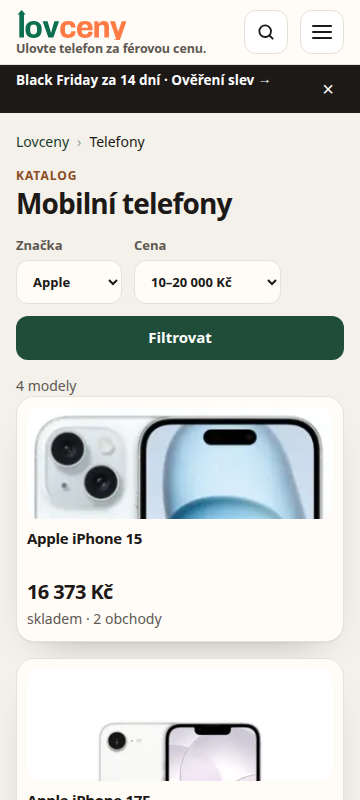
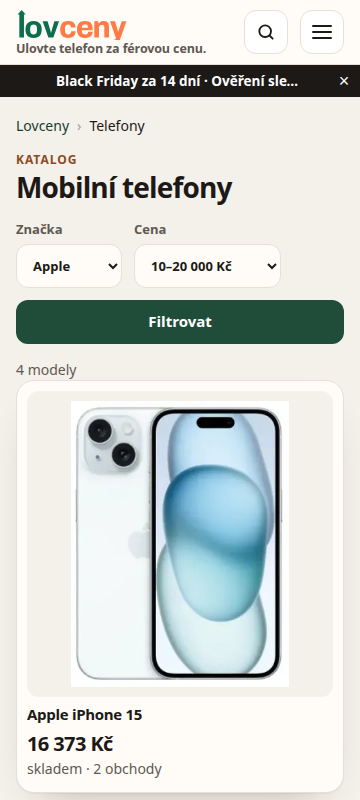
Keep phone photos inside their frames and one offer row per shop.
The model image no longer spills over the price, cards and compare show the whole phone, and the top offers are three different shops when the data has them.

diff --git a/lovceny/static/phones.css b/lovceny/static/phones.css
@@ -22,9 +22,9 @@ body{background:var(--bg);color:var(--ink);font-family:"Avenir Next","Segoe UI",
 .btn-primary:hover{background:var(--brand-600)}
 .kicker,.eyebrow{margin:0;font-size:12px;font-weight:700;letter-spacing:.08em;text-transform:uppercase;color:var(--accent)}
 .bf-banner{background:#1C1917}
-.bf-line{display:flex;align-items:center;gap:8px;min-height:36px}
-.bf-banner .bf-line a{display:block;flex:1;min-width:0;padding:7px 0;color:#fff;text-decoration:none;font-size:13.5px;font-weight:650;line-height:1.2;white-space:nowrap;overflow:hidden;text-overflow:ellipsis}
-.bf-dismiss{flex:none;width:32px;height:32px;border:0;background:transparent;color:#fff;font-size:20px;line-height:1;cursor:pointer}
+.bf-line{position:relative;display:flex;align-items:center;justify-content:center;height:32px;min-height:32px}
+.bf-banner .bf-line a{display:block;flex:1;min-width:0;min-height:0;margin:0;padding:0 40px;color:#fff;text-decoration:none;font-size:13.5px;font-weight:650;line-height:32px;text-align:center;white-space:nowrap;overflow:hidden;text-overflow:ellipsis}
+.bf-dismiss{position:absolute;right:0;top:0;width:32px;height:32px;display:grid;place-items:center;border:0;background:transparent;color:#fff;font-size:18px;line-height:1;cursor:pointer;padding:0}
 .head-search{display:none;align-items:center;gap:8px;margin-left:auto}
 .head-search input{height:40px;width:min(240px,28vw);border:1px solid var(--line);border-radius:12px;padding:0 12px;font:inherit;font-size:15px;background:var(--bg);color:var(--ink)}
 .head-search .btn{height:40px;padding:0 14px;font-size:14px}
@@ -38,7 +38,7 @@ body{background:var(--bg);color:var(--ink);font-family:"Avenir Next","Segoe UI",
   .head-search.is-open .btn{flex:none}
 }
 .phone-hero{padding:8px 0 0}
-.phone-hero-grid{display:grid;grid-template-columns:minmax(0,1.35fr) 260px;gap:20px;align-items:center}
+.phone-hero-grid{display:grid;grid-template-columns:minmax(0,1.35fr) 260px;gap:20px;align-items:center;padding-left:24px;padding-right:24px;box-sizing:border-box}
 .phone-hero h1{font-size:28px;line-height:1.12;letter-spacing:-.03em;font-weight:750;max-width:22ch;margin:2px 0 6px}
 .nowrap{white-space:nowrap}
 .phone-lead{max-width:62ch;color:var(--muted);font-size:14px;line-height:1.4;margin:0 0 10px}
@@ -46,12 +46,13 @@ body{background:var(--bg);color:var(--ink);font-family:"Avenir Next","Segoe UI",
 .phone-hero .search input,.phone-hero .search .btn-primary{height:46px}
 .phone-hero .search .btn-primary{width:auto;flex:none;padding:0 18px}
 .hero-feature{display:grid;grid-template-columns:84px minmax(0,1fr);gap:10px;align-items:center;background:var(--soft);border:1px solid var(--line);border-radius:16px;padding:10px;text-decoration:none;color:inherit}
-.hero-feature .phone-card-img{height:84px;margin:0}
+.hero-feature .phone-card-img{height:84px;aspect-ratio:auto;margin:0}
 .hero-feature strong{display:block;font-size:15px;line-height:1.25;letter-spacing:-.02em}
 .hero-feature b{display:block;margin-top:4px;font-size:20px;letter-spacing:-.03em}
 .phone-board,.phone-guides,.phone-page{padding:8px 0 var(--space-6)}
 .phone-board-head{display:flex;justify-content:space-between;gap:var(--space-3);align-items:end;margin-bottom:8px}
 .phone-board-head h2{letter-spacing:-.03em;line-height:1.15;font-size:20px;margin:0}
+.phone-more{font-size:14px;font-weight:700;color:var(--brand);text-decoration:none;white-space:nowrap}
 .phone-page h1,.guides-page h1{letter-spacing:-.03em;line-height:1.15;font-size:28px;margin:2px 0 8px;max-width:none;text-align:left}
 .phone-filters{display:grid;gap:6px;margin-bottom:10px}
 .phone-scroll{position:relative;min-width:0}
@@ -65,19 +66,21 @@ body{background:var(--bg);color:var(--ink);font-family:"Avenir Next","Segoe UI",
 .phone-drops a{font-weight:700;text-decoration:none}
 .phone-grid{display:grid;grid-template-columns:repeat(4,minmax(0,1fr));gap:var(--space-4)}
 .phone-card{background:var(--soft);border:1px solid var(--line);border-radius:18px;box-shadow:var(--shadow)}
-.phone-card-main{display:flex;flex-direction:column;gap:2px;text-decoration:none;padding:10px 10px 12px;color:inherit;height:100%}
-.phone-card-img,.model-photo,.guide-photo,.pcmp-photo{color:var(--muted)}
-.phone-card-img{height:112px;display:grid;place-items:center;background:var(--bg);border-radius:12px;overflow:hidden;margin:0 0 8px}
+.phone-card-main{display:flex;flex-direction:column;gap:0;text-decoration:none;padding:10px 10px 12px;color:inherit;height:100%}
+.phone-card-img,.model-photo,.guide-photo,.pcmp-photo{position:relative;color:var(--muted);overflow:hidden}
+.phone-card-img{aspect-ratio:1;height:auto;background:var(--bg);border-radius:12px;margin:0 0 8px}
 .phone-card-img .img-missing,.model-photo .img-missing{min-height:100%}
 .phone-card-img .img-missing svg,.model-photo .img-missing svg{display:none}
 .phone-card-img .img-missing::before,.model-photo .img-missing::before{
   content:"";width:42px;height:72px;border:2px solid currentColor;border-radius:10px;
   box-shadow:inset 0 8px 0 -6px currentColor, inset 0 -14px 0 -12px currentColor;
 }
-.phone-card-img img,.model-photo img{width:100%;height:100%;object-fit:contain}
+.phone-card-img .img-frame,.model-photo .img-frame,.guide-photo .img-frame,.pcmp-photo .img-frame{position:absolute;inset:10px;display:flex;align-items:center;justify-content:center;min-width:0;min-height:0}
+.guide-photo .img-frame{inset:4px}
+.phone-card-img img,.model-photo img,.guide-photo img,.pcmp-photo img,.hero-feature img{width:auto;height:auto;max-width:100%;max-height:100%;object-fit:contain;object-position:center}
 .phone-card-brand{margin:0;font-size:12px;font-weight:700;letter-spacing:.06em;text-transform:uppercase;color:var(--muted)}
-.phone-card h3{margin:0;font-size:15px;line-height:1.3;letter-spacing:-.02em;min-height:2.6em}
-.phone-card-price{margin:6px 0 0;font-size:20px;letter-spacing:-.03em}
+.phone-card h3{margin:0;font-size:15px;line-height:1.3;letter-spacing:-.02em;display:-webkit-box;-webkit-line-clamp:2;-webkit-box-orient:vertical;overflow:hidden}
+.phone-card-price{margin:4px 0 0;font-size:20px;letter-spacing:-.03em}
 .phone-card-price b{font-weight:750}
 .phone-card-meta,.phone-note,.phone-count,.phone-empty,.model-note{color:var(--muted);font-size:14px;line-height:1.45}
 .guide-links{display:grid;grid-template-columns:repeat(3,minmax(0,1fr));gap:var(--space-3);list-style:none;padding:0;margin:0}
@@ -87,8 +90,9 @@ body{background:var(--bg);color:var(--ink);font-family:"Avenir Next","Segoe UI",
 .phone-filter-form select{min-height:44px;border:1px solid var(--line);border-radius:12px;padding:0 12px;font:inherit;color:var(--ink);background:var(--soft)}
 .cmp-title{font-size:clamp(22px,2.2vw,30px);line-height:1.25;letter-spacing:-.02em}
 .model{padding:8px 0 var(--space-7)}
+.phone-compare{padding-top:20px}
 .model-hero{display:grid;grid-template-columns:minmax(200px,280px) minmax(0,1fr);gap:24px;align-items:start}
-.model-photo{background:var(--soft);border:1px solid var(--line);border-radius:20px;height:280px;display:grid;place-items:center;padding:12px}
+.model-photo{background:var(--soft);border:1px solid var(--line);border-radius:20px;height:240px;max-height:240px;box-sizing:border-box}
 .model-buybox h1{font-size:32px;line-height:1.1;letter-spacing:-.03em;margin:2px 0 6px;max-width:none;text-align:left}
 .model-price{font-size:36px;line-height:1;font-weight:750;letter-spacing:-.04em;margin:0}
 .history-note{margin:8px 0 0;color:var(--muted);font-size:13.5px;line-height:1.4;max-width:62ch}
@@ -112,6 +116,7 @@ body{background:var(--bg);color:var(--ink);font-family:"Avenir Next","Segoe UI",
 .offer-table li{display:grid;grid-template-columns:1fr auto auto;gap:12px;align-items:center;background:var(--soft);border:1px solid var(--line);border-radius:16px;padding:12px 14px;min-height:64px}
 .offer-table .is-best{border-color:var(--brand);box-shadow:inset 3px 0 0 var(--brand)}
 .offer-shop{font-weight:700}
+.offer-color{display:block;font-weight:600;font-size:13px;color:var(--muted)}
 .offer-price{font-size:20px;font-weight:750;letter-spacing:-.03em}
 .offer-oos{color:var(--muted);font-size:14px;font-weight:700}
 .guide-list{list-style:none;padding:0;margin:8px 0 20px;display:grid;gap:8px}
@@ -119,8 +124,9 @@ body{background:var(--bg);color:var(--ink);font-family:"Avenir Next","Segoe UI",
 .guide-list .is-top{border-color:#C9B59A;background:#FFF9F1;box-shadow:inset 3px 0 0 var(--accent)}
 .guide-rank{font-weight:750;color:var(--brand);text-align:center}
 .guide-list .is-top .guide-rank{color:var(--accent)}
-.guide-photo{width:56px;height:56px;display:grid;place-items:center;background:var(--bg);border-radius:10px;overflow:hidden}
-.guide-photo img,.pcmp-photo img{width:100%;height:100%;object-fit:contain}
+.guide-photo{width:56px;height:56px;background:var(--bg);border-radius:10px}
+.color-row{display:flex;flex-wrap:wrap;gap:8px}
+.color-row .storage-chip{flex-direction:row;min-width:0;min-height:40px;border-radius:999px;padding:0 14px}
 .guide-name{font-weight:700;text-decoration:none;line-height:1.3}
 .guide-shop{color:var(--muted);font-size:13px;white-space:nowrap}
 .guide-list b{font-size:18px;letter-spacing:-.03em;white-space:nowrap}
@@ -131,20 +137,25 @@ body{background:var(--bg);color:var(--ink);font-family:"Avenir Next","Segoe UI",
 .pcmp-head{align-items:end;border-bottom-width:2px}
 .pcmp-label{font-size:13px;font-weight:700;color:var(--muted)}
 .pcmp-id{display:grid;gap:8px;text-decoration:none;color:inherit}
-.pcmp-photo{height:120px;display:grid;place-items:center;background:var(--soft);border:1px solid var(--line);border-radius:14px;overflow:hidden}
+.pcmp-photo{height:140px;background:var(--soft);border:1px solid var(--line);border-radius:14px}
 .pcmp-name{font-weight:750;font-size:16px;line-height:1.3;letter-spacing:-.02em}
 .pcmp-price{font-size:22px;font-weight:750;letter-spacing:-.03em}
 .pcmp-price.is-best{color:var(--brand)}
 .pcmp-store{display:block;font-size:13px;line-height:1.35}
 @media (max-width:900px){
-  .phone-hero-grid{grid-template-columns:1fr;gap:0}
+  .phone-hero-grid{grid-template-columns:1fr;gap:0;padding-left:16px;padding-right:16px}
+  .phone-hero .search{max-width:100%;box-sizing:border-box}
+  .phone-board-head{display:block}
+  .phone-more{display:inline-block;margin-top:4px}
   .hero-feature{display:none}
   .phone-hero h1{font-size:24px;max-width:none}
   .phone-kicker{display:none}
   .phone-grid{grid-template-columns:repeat(2,minmax(0,1fr))}
   .guide-links{grid-template-columns:1fr}
   .model-hero{grid-template-columns:1fr;gap:12px}
-  .model-photo{height:200px;border-radius:16px}
+  .model-photo{height:200px;max-height:200px;border-radius:16px}
+  .model-photo .img-frame{inset:12px}
+  .model-photo img{max-height:176px}
   .model-buybox h1{font-size:26px}
   .model-price{font-size:32px}
   .phone-scroll::after{content:"";position:absolute;top:0;right:0;bottom:0;width:28px;pointer-events:none;background:linear-gradient(90deg,rgba(244,241,234,0),var(--bg))}

diff --git a/lovceny/templates/phone_model.html b/lovceny/templates/phone_model.html
@@ -25,12 +25,13 @@
         {% endfor %}
       </div>
       {% endif %}
-      {% if offers %}
+      {% if offer_rows %}
       <ol class="offer-table offer-top">
-        {% for offer in offers[:3] %}
+        {% for row in offer_rows[:3] %}
+        {% set offer = row.offer %}
         {% set shop = get_shop(offer.shop) %}
         <li class="{% if loop.first and offer.in_stock is not false %}is-best{% endif %}">
-          <span class="offer-shop">{{ shop.name if shop else offer.shop }}</span>
+          <span class="offer-shop">{{ shop.name if shop else offer.shop }}{% if row.color %} <span class="offer-color">{{ row.color }}</span>{% endif %}</span>
           <span class="offer-price">{{ offer.price|czk }}</span>
           {% if offer.in_stock is false %}
           <span class="offer-oos">Není skladem</span>
@@ -50,23 +51,24 @@
   {% if model.colors %}
   <section class="model-block" aria-labelledby="color-h">
     <h2 id="color-h">Barva</h2>
-    <div class="phone-scroll"><div class="phone-filter-row">
-      <a href="/telefon/{{ model.slug }}{% if storage %}?pamet={{ storage|urlencode }}{% endif %}"{% if not color %} aria-current="true"{% endif %}>Vše</a>
+    <div class="phone-scroll"><div class="color-row">
+      <a class="storage-chip{% if not color %} is-on{% endif %}" href="/telefon/{{ model.slug }}{% if storage %}?pamet={{ storage|urlencode }}{% endif %}"{% if not color %} aria-current="true"{% endif %}>Vše</a>
       {% for label in model.colors %}
-      <a href="/telefon/{{ model.slug }}?barva={{ label|urlencode }}{% if storage %}&pamet={{ storage|urlencode }}{% endif %}"{% if color == label %} aria-current="true"{% endif %}>{{ label }}</a>
+      <a class="storage-chip{% if color == label %} is-on{% endif %}" href="/telefon/{{ model.slug }}?barva={{ label|urlencode }}{% if storage %}&pamet={{ storage|urlencode }}{% endif %}"{% if color == label %} aria-current="true"{% endif %}>{{ label }}</a>
       {% endfor %}
     </div></div>
   </section>
   {% endif %}
 
-  {% if offers|length > 3 %}
+  {% if offer_rows|length > 3 %}
   <section class="model-block" aria-labelledby="offers-h">
     <h2 id="offers-h">Další obchody</h2>
     <ol class="offer-table">
-      {% for offer in offers[3:] %}
+      {% for row in offer_rows[3:] %}
+      {% set offer = row.offer %}
       {% set shop = get_shop(offer.shop) %}
       <li>
-        <span class="offer-shop">{{ shop.name if shop else offer.shop }}</span>
+        <span class="offer-shop">{{ shop.name if shop else offer.shop }}{% if row.color %} <span class="offer-color">{{ row.color }}</span>{% endif %}</span>
         <span class="offer-price">{{ offer.price|czk }}</span>
         {% if offer.in_stock is false %}
         <span class="offer-oos">Není skladem</span>

diff --git a/lovceny/templates/index.html b/lovceny/templates/index.html
@@ -32,7 +32,7 @@
       <p class="eyebrow">Nejvíc nabízené modely</p>
       <h2 id="phone-board-h">Nejnižší cena hned na první pohled</h2>
     </div>
-    <a class="btn btn-ghost" href="/telefony">Všechny telefony</a>
+    <a class="phone-more" href="/telefony">Všechny telefony</a>
   </div>
   <div class="phone-filters" aria-label="Filtrovat telefony">
     <div class="phone-scroll"><div class="phone-filter-row">

diff --git a/lovceny/phones.py b/lovceny/phones.py
@@ -528,6 +528,41 @@ def brands_in(models: list[PhoneModel]) -> list[str]:
     return sorted(found, key=str.casefold)
 
 
+def offer_color(model: PhoneModel, offer: Offer) -> str:
+    for product in model.products:
+        if product.id == offer.product_id:
+            labels = sorted(color_labels(product.name or ""))
+            return labels[0] if labels else ""
+    return ""
+
+
+def shop_offer_rows(model: PhoneModel, offers: list[Offer]) -> list[dict]:
+    """Jedna nejlevnější skladová nabídka na obchod.
+
+    Když jsou obchody aspoň tři, další barvy téhož obchodu se neopakují.
+    Když je obchodů míň, další řádky zůstanou a nesou barvu, ať to není
+    třikrát stejný název bez rozdílu.
+    """
+    chosen: dict[str, Offer] = {}
+    for offer in offers:
+        if offer.shop not in chosen:
+            chosen[offer.shop] = offer
+    rows = [{"offer": offer, "color": ""} for offer in chosen.values()]
+    rows.sort(key=lambda row: (not offer_is_buyable(row["offer"]), float(row["offer"].price)))
+    if len(rows) != 1:
+        return rows
+    seen = {rows[0]["offer"].id}
+    extra = []
+    for offer in offers:
+        if offer.id in seen:
+            continue
+        seen.add(offer.id)
+        extra.append({"offer": offer, "color": offer_color(model, offer)})
+    if extra:
+        rows[0]["color"] = offer_color(model, rows[0]["offer"])
+    return rows + extra
+
+
 def select_variant(model: PhoneModel, storage: str = "", color: str = "") -> list[Product]:
     chosen = model.products
     if storage:

diff --git a/lovceny/main.py b/lovceny/main.py
@@ -506,7 +506,7 @@ def phone_model_page(request: Request, slug: str, pamet: str = "", barva: str = 
     compare_href = ""
     if len(compare_products) >= 2:
         compare_href = "/porovnat?p=" + ",".join(compare_token(product) for product in compare_products[:3])
-    from .phones import storage_label
+    from .phones import shop_offer_rows, storage_label
     active_storage = pamet.strip()
     if not active_storage and shown is not None:
         for product in model.products:
@@ -518,6 +518,7 @@ def phone_model_page(request: Request, slug: str, pamet: str = "", barva: str = 
         "model": model, "offers": offers, "storage": pamet.strip(), "color": barva.strip(),
         "active_storage": active_storage,
         "shown_price": current, "buyable": bool(buyable), "verdict": verdict, "v": verdict,
+        "offer_rows": shop_offer_rows(model, offers),
         "storage_deals": deals, "compare_href": compare_href,
         "chart_ranges": ranges, "chart_note": verdict_note(verdict, ranges), "crumbs": crumbs,
         "canonical_path": f"/telefon/{model.slug}", "get_shop": get_shop,

diff --git a/tests/test_phones.py b/tests/test_phones.py
@@ -36,6 +36,23 @@ def test_tablet_stays_off_the_phone_site_and_names_drop_specs():
         db.close()
 
 
+def test_offer_rows_keep_one_cheapest_per_shop():
+    init_db()
+    db = SessionLocal()
+    try:
+        from lovceny.phones import shop_offer_rows
+        black = _phone(db, "Apple iPhone 16 128GB černá", 18000, shop="tera", slug="ip16-cerna")
+        white = _phone(db, "Apple iPhone 16 128GB bílá", 18100, shop="tera", slug="ip16-bila")
+        other = _phone(db, "Apple iPhone 16 128GB černá", 19000, shop="alza", slug="ip16-alza")
+        model = group_phones([black, white, other])[0]
+        rows = shop_offer_rows(model, model.offers)
+        assert [row["offer"].shop for row in rows] == ["tera", "alza"]
+        assert rows[0]["offer"].price == 18000
+        assert rows[0]["color"] == ""
+    finally:
+        db.close()
+
+
 def test_storage_variants_are_one_model():
     init_db()
     db = SessionLocal()

diff --git a/tests/test_redesign.py b/tests/test_redesign.py
@@ -134,7 +134,7 @@ def test_home_hero_clarity():
     assert 'property="og:description" content="Ulovte telefon za férovou cenu.' in html
     assert "Jak to funguje" not in html
     assert "Nejvíc nabízené modely" in html
-    assert "Nejnižší ceny telefonů z českých e-shopů" in html
+    assert "Nejnižší ceny telefonů z českých" in html and "e-shopů" in html
     assert html.count("Ulovte telefon za férovou cenu.") >= 4
     assert 'id="nav-toggle"' in html and "aria-expanded" in html
     assert 'href="/telefony"' in html and 'href="/pruvodce"' in html
